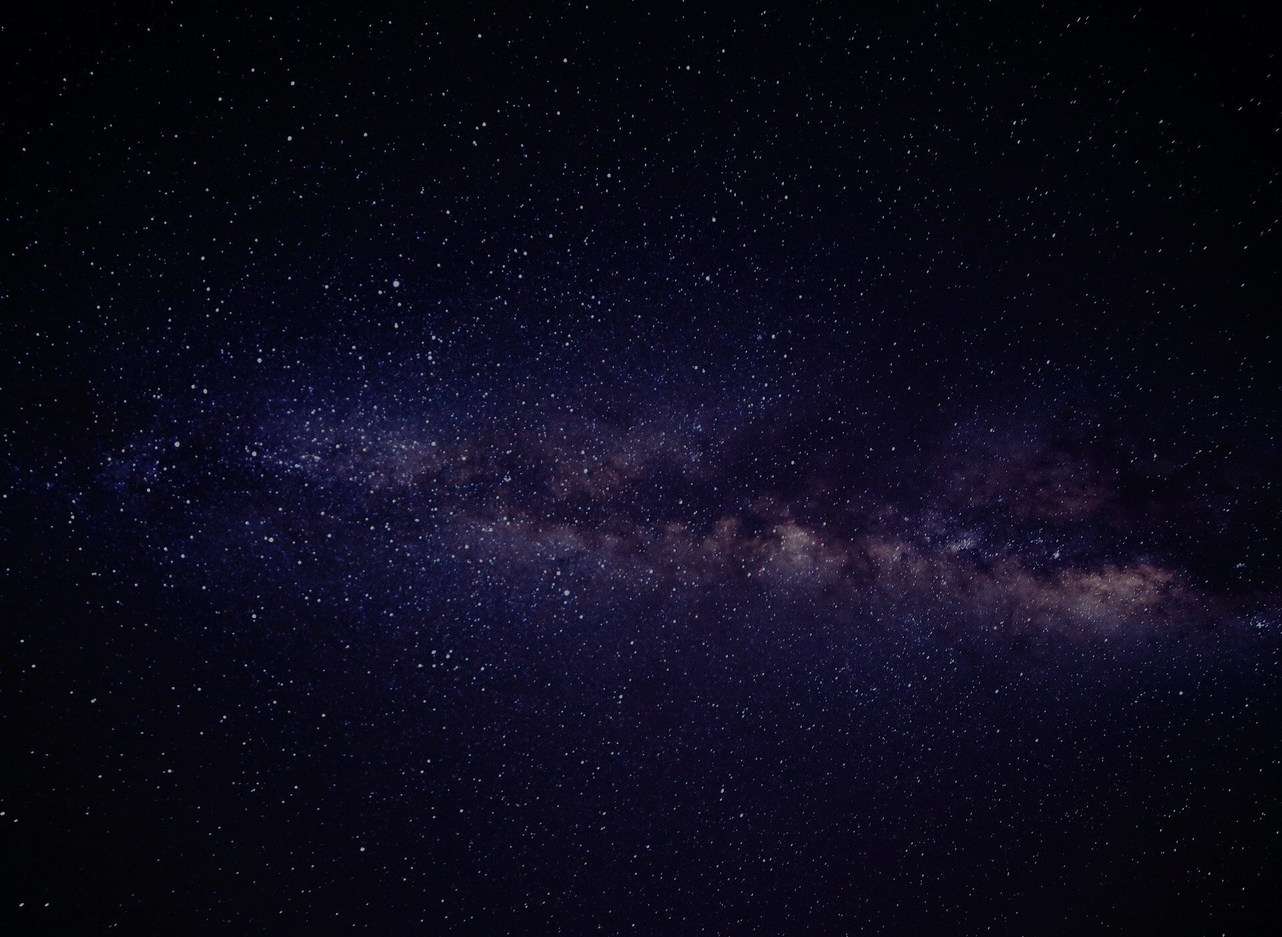
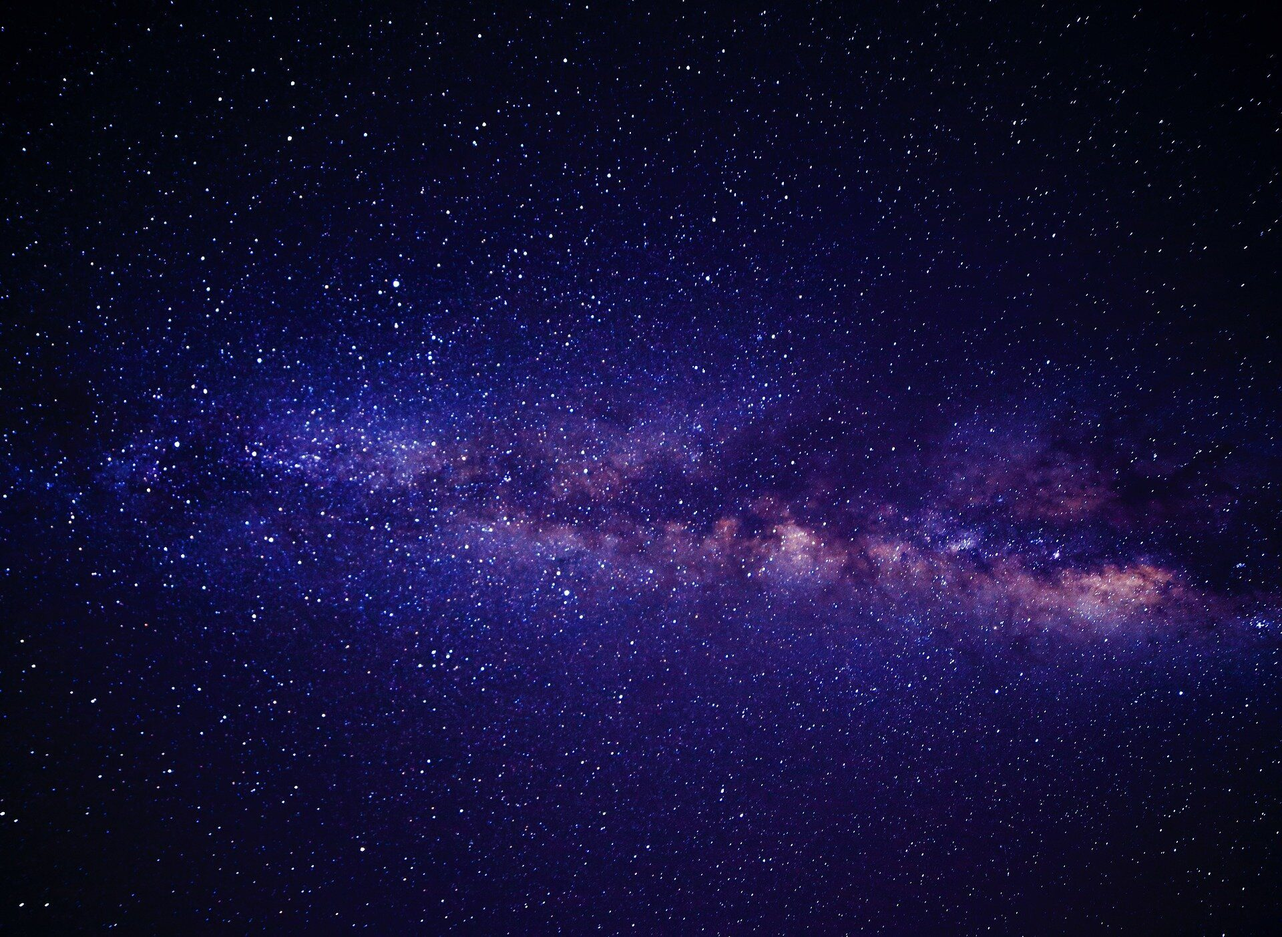
App-Hintergrund: weniger gesättigt und dunkler; Sättigung/Helligkeit per CSS-Variablen an :root einstellbar

diff --git a/src/styles/app_background.less b/src/styles/app_background.less
@@ -1,4 +1,11 @@
-// App-Hintergrund (Milchstraße, assets/background.jpg – entsättigt und abgedunkelt) für Spielansicht,
+// Sättigung und Helligkeit des Hintergrundbilds – zum Nachjustieren live im Browser an :root änderbar
+// (DevTools: Element <html> → Styles → --app-background-saturation / --app-background-brightness)
+:root {
+  --app-background-saturation: 0.4;
+  --app-background-brightness: 0.45;
+}
+
+// App-Hintergrund (Milchstraße, assets/background.jpg – unbearbeitetes Foto, gedämpft per Filter) für Spielansicht,
 // Zuschaueransicht und Startseite. Als fest stehendes Pseudo-Element deckt er immer genau das ganze Fenster ab
 // (cover: vollständig gefüllt, Proportionen bleiben) – unabhängig davon, wie lang der Inhalt ist oder wie gescrollt wird.
 // ::after ist bei der Spielansicht schon belegt (Rahmen "du bist am Zug", active_player_outline.less).
@@ -16,6 +23,7 @@
     inset: 0;
     z-index: -1;
     background: url(./assets/background.jpg) center / cover no-repeat;
+    filter: saturate(var(--app-background-saturation)) brightness(var(--app-background-brightness));
     pointer-events: none;
   }
 }
@@ -24,4 +32,5 @@
 .preferences_remove_background #player-home::before,
 .preferences_remove_background #spectator-home::before {
   background: @grey_900;
+  filter: none;
 }
